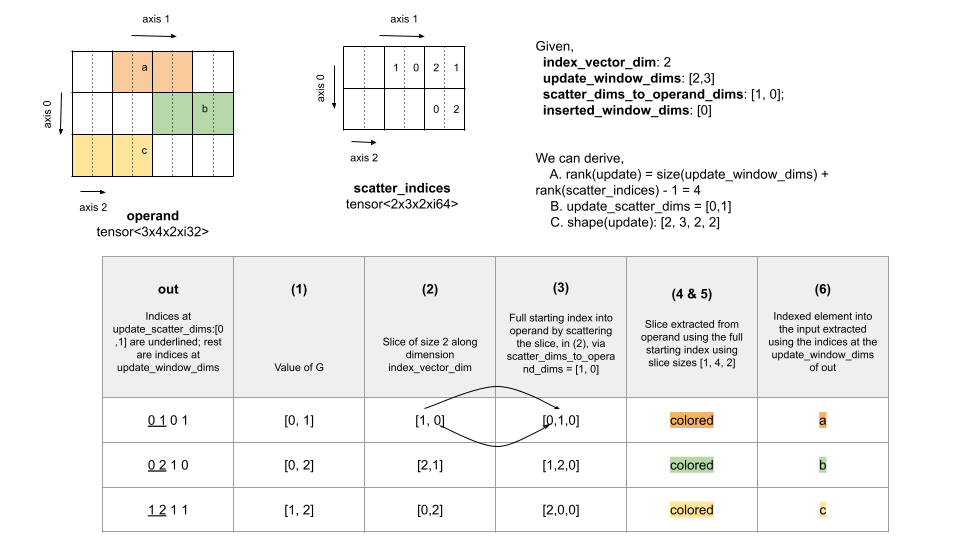
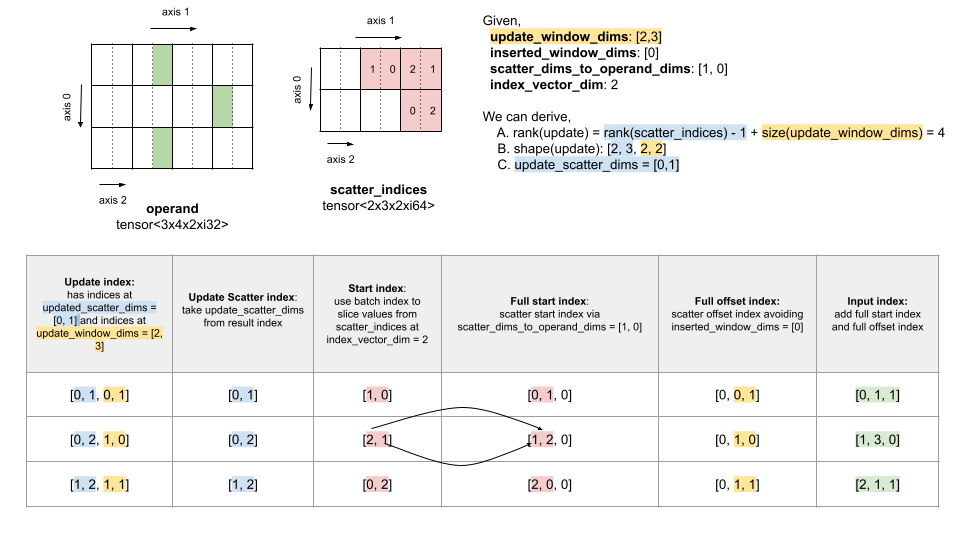
address review comments based on a simialr PR #275

diff --git a/docs/spec_draft.md b/docs/spec_draft.md
@@ -2376,105 +2376,72 @@ Generate `results` which is the values of the `inputs` operand, with several
 slices at indices specified by `scatter_indices`, updated with the values in
 `updates` using `update_computation`.
 
-Informally, for any `k`, every index `out` in `update[k]` corresponds to an
-element in `inputs[k]` at index `in` such that `result[k][in] =
-update_computation(inputs[k][in], updates[k][out])`. The element `inputs[k][in]`
- is computed using the following steps:
+The following diagram shows how elements in `updates[k]` map on elements in
+`inputs[k]` using a concrete example. The diagram picks a few example
+`updated[k[` indexes and explains in detail which `inputs[k]` indexes they
+correspond to.
 
-  1. Given the `update_scatter_dims` dimensions, `update_scatter_dims` = {`k`:
-     `k` is a dimension of `updates` and `k` $\notin$ `update_window_dims`},
-     extract the scatter indices $G$ from `out`. That is, $G =$ { `out`[`k`] :
-     `k` $\in$ `update_scatter_dims`}.
+<img align="center" src="spec_images/scatter.png" />
 
-  2. Use $G$ to look up a starting index slice from `scatter_indices` of size
-     dim(`scatter_indices`, `index_vector_dim`) along `index_vector_dim`
-     dimension.
+More formally, for any `k`, `updates[k][update_index] =
+inputs[k][input_index]` where:
+  * `update_scatter_dims` = [`d` for `d` in `axes(updates[k])` and `d` not in
+    `update_window_dims`].
+  * `update_scatter_index` = [`update_index[d]` for `d` in
+    `update_scatter_dims`].
+  * `start_index` =
+      * `scatter_indices[bi0, ..., :, ..., biN]` where `bi` are individual
+        elements in `update_scatter_index` and `:` is inserted at the
+        `index_vector_dim` index, if `index_vector_dim` <
+        `rank(scatter_indices)`.
+      * `[scatter_indices[update_scatter_index]]` otherwise.
+  * For `do` in `axes(inputs[k])`,
+      * `full_start_index[do]` = `start_index[ds]` if
+        `do = scatter_dims_to_operand_dims[ds]`.
+      * `full_start_index[do]` = `0` otherwise.
+  * `update_window_index` = [`update_index[d]` for `d` in `update_window_dims`].
+  * `full_offset_index` = `[oi0, ..., 0, ..., oiN]` where `oi` are individual
+    elements in `update_window_index`, and `0` is inserted at indices from
+    `inserted_window_dims`.
+  * `input_index` = `add(full_start_index, full_offset_index)`.
+    If `input_index` is out of bounds for `inputs[k]`, then the behavior is
+    implementation-defined.
 
-  3. Use `scatter_dims_to_operand_dims` to scatter the starting index slice
-     (whose size may be less than rank(`inputs[k]`)) into the iteration space
-     of `inputs[k]` creating a "full" starting index.
+For every index `update_index` in `updates[k]` and the corresponding index
+`input_index` in the `inputs[k]`, we have
 
-  4. Extract a slice out of `inputs[k]` with size `shape(inputs[k])` using the
-     full starting index.
-
-  5. Reshape the slice by collapsing the `inserted_window_dims` dimensions.
-
-  6. Use the indices of `out` at `update_window_dims` to index into the above
-     slice to get the input element corresponding to update index `out`.
-
-The following diagram depicts the behavior of the op, based on the above
-mentioned steps, using a concrete example. It uses a few instances of `out`
-indices to demonstrate how they are mapped to input elements.
-
-<p align="center">
-  <img src="spec_images/scatter.png" />
-</p>
-
-More formally, for a given index `out` in each `updates[k]`, the corresponding
-index `in` in `inputs[k]` into which the update has to be applied is computed as
-follows:
-
-1. If `index_vector_dim` $=$ rank(`scatter_indices`), add a trailing $1$ on the
-   shape of `scatter_indices`.
-
-2. Let $G =$ { `out`[`k`] for `k` in `update_scatter_dims`}. Use $G$ to slice
-   out a vector $S$ such that $S$[`i`] = `scatter_indices`[`Combine`($G$, `i`)]
-   where `Combine`(`A`, `b`) inserts b at position `index_vector_dim` into `A`.
-
-3. Create a starting index, $S_{in}$, into `inputs[k]` using $S$ by scattering
-   $S$ using `scatter_dims_to_operand_dims`. More precisely:
-     * $S_{in}$[`start_index_map`[`k`]] = $S$[`k`] if `k` $\lt$
-     size(`scatter_dims_to_operand_dims`).
-     * $S_{in}$[ _ ] $= 0$, Otherwise.
-
-4. Create an index $O_{in}$ into `inputs[k]` by scattering the indices at
-   `update_window_dims` in `out` according to the `inserted_window_dims` set.
-   More precisely:
-    * $O_{in}$[`window_dims_to_operand_dims`(`k`)] $=$
-    `out`[`update_window_dims`[`k`]] if `k` $\lt$ size(`update_window_dims`),
-    where `window_dims_to_operand_dims` is a monotonic
-    function with domain [0, size(`update_window_dims`)) and range
-    [0, rank(`operand`)) $-$ `inserted_window_dims`. So if, e.g.,
-    size(`update_window_dims`) is `4`, rank(`operand`) is `6` and
-    `inserted_window_dims` is `{0, 2}` then `window_dims_to_operand_dims` is
-    `{0 -> 1, 1 -> 3, 2 -> 4, 3 -> 5}`.
-    * $O_{in}$[ \_ ] $= 0$, Otherwise.
-
-5. `in` $= O_{in} + S_{in}$ where $+$ is element-wise addition. If
-   `in`[i] $\ge$ `di`, where `di` is the `i`$^{th}$ dimension size of
-   `inputs[k]`, then the behavior is implementation defined.
-
-
-For every index `out` in `updates[k]` and the corresponding index `in` in
-the `inputs[k]`, we have
-
-`(results[0][in], ..., results[N-1][in]) = update_computation(inputs[0][in], ..., , inputs[N-1][in],updates[0][out], ...,updates[N-1][out])`
-
+`results[k][input_index] = update_computation(inputs[k][input_index], updates[k][update_index])
 
 If `indices_are_sorted` is set to true then the implementation can assume that
 `scatter_indices` are sorted (in ascending `scatter_dims_to_operand_dims` order)
 by the user. If they are not then the semantics is implementation defined.
 
+If unique_indices is set to true then the implementation can assume that all
+`input_index` indices  being scattered to are unique. So the implementation
+could use non-atomic operations. If unique_indices is set to true and the
+indices being scattered to are not unique then the semantics is implementation
+defined.
+
 ### Inputs
 
-| Name                           | Description                                                                      | Type                                              | Constraints      |
-|--------------------------------|----------------------------------------------------------------------------------|---------------------------------------------------|------------------|
-| `inputs`                       | Input tensors to be scattered into                                               | variadic number of tensors of any supported types | (C1), (C2), (C3) |
-| `scatter_indices`              | A tensor containing the starting indices of the slices that must be scattered to | tensor of type `si64`                             |                  |
-| `updates`                      | `updates`[`i`] contains the values that must be used for scattering `inputs`[i]  | variadic number of tensors of any supported types | (C2), (C4)       |
-| `update_window_dims`           | The set of dimensions in updates shape that are window dimensions                | 1-dimensional tensor constant of type `si64`      | (C9), (C10)      |
-| `inserted_window_dims`         | The set of window dimensions that must be inserted into updates shape            | 1-dimensional tensor constant of type `si64`      | (C11),(C12)      |
-| `scatter_dims_to_operand_dims` | A dimensions map from the scatter indices to the operand index space.            | 1-dimensional tensor constant of type `si64`      | (C6),(C7), (C8)  |
-| `index_vector_dim`             | The dimension in `start_indices` containing the starting indices                 | constant of type `si64`                           | (C5)             |
-| `indices_are_sorted`           | Whether the indices are guaranteed to be sorted by the caller                    | constant of type `boolean`                        |                  |
-| `unique_indices`               | Whether the indices are guaranteed to be sorted by the caller                    | constant of type `boolean`                        |                  |
-| `update_computation`           | function                                                                         |                                                   |                  |
+| Name                           | Type                                              | Constraints                            |
+|--------------------------------|---------------------------------------------------|----------------------------------------|
+| `inputs`                       | variadic number of tensors of any supported types | (C1), (C2), (C3), (C12), (C13), (C15)  |
+| `scatter_indices`              | tensor of type `si64`                             | (C5), (C6), (C14, (C15)                |
+| `updates`                      | variadic number of tensors of any supported types | (C2), (C4), (C10), (C13), (C14), (C15) |
+| `update_window_dims`           | 1-dimensional tensor constant of type `si64`      | (C1), (C9), (C10), (C14)               |
+| `inserted_window_dims`         | 1-dimensional tensor constant of type `si64`      | (C1), (C11), (C12), (C15)              |
+| `scatter_dims_to_operand_dims` | 1-dimensional tensor constant of type `si64`      | (C6),(C7), (C8)                        |
+| `index_vector_dim`             | constant of type `si64`                           | (C5), (C6), (C14), (C15)               |
+| `indices_are_sorted`           | constant of type `boolean`                        |                                        |
+| `unique_indices`               | constant of type `boolean`                        |                                        |
+| `update_computation`           | function                                          | (C13)                                  |
 
 ### Outputs
 
-| Name     | Type                                              |
-|----------|---------------------------------------------------|
-| `results` | variadic number of tensors of any supported types|
+| Name      | Type                                              |
+|-----------|---------------------------------------------------|
+| `results` | variadic number of tensors of any supported types |
 
 ### Constraints
 
@@ -2488,12 +2455,11 @@ by the user. If they are not then the semantics is implementation defined.
 
   * (C4) All `updates` have the same shape.
 
-  * (C5) $0 \le$ `index_vector_dim` $\le$ rank(`scatter_indices`) Or
-        `index_vector_dim` $=$ rank(`scatter_indices`), in which case assume a
-         trailing $1$ on the shape of `scatter_indices`.
+  * (C5) $0 \le$ `index_vector_dim` $\le$ rank(`scatter_indices`)
 
-  * (C6) dim(`scatter_indices`, `index_vector_dim`) $=$
-         size(`scatter_dims_to_operand_dims`)
+  * (C6) size(`scatter_dims_to_operand_dims`) $=$
+         `index_vector_dim` $\lt$ rank(`scatter_indices`) ?
+         dim(`scatter_indices`, `index_vector_dim`) : 1.
 
   * (C7) All dimensions in `scatter_dims_to_operand_dims` unique.
 
@@ -2506,36 +2472,32 @@ by the user. If they are not then the semantics is implementation defined.
   * (C10) For all i $\in$ [0, size(`update_window_dims`)), $0 \le$
     `update_window_dims`[i] $\lt$ rank(`updates`[k]), for any k $\in$ [0, N).
 
-
   * (C11) All dimensions in `inserted_window_dims` are unique and sorted.
 
-  * (C12)For all i $\in$ [0, size(`inserted_window_dims`)), $0 \le$
+  * (C12) For all i $\in$ [0, size(`inserted_window_dims`)), $0 \le$
     `inserted_window_dims`[i] $\lt$ rank(`inputs`[k]), for any k $\in$ [0, N).
 
-  * (C13) `inputs[k]` and `result[k]` have the same type for any k $\in$ [0, N).
-
-  * (C14) `update_computation` is of type `(I0, ..., IN-1, U0, ..., UN-1) -> (R0, ..., RN-1)`
+  * (C13) `update_computation` is of type `(I0, ..., IN-1, U0, ..., UN-1) -> (R0, ..., RN-1)`
           where `I0, ..., IN-1` are types of `inputs`,  `U0, ..., UN-1` are
-          types of `updates`, and `R0, ..., RN-1` are types of `results`.
+          types of `updates`, and `R0, ..., RN-1` are types of `results` and
+          Id = Ud = Rd.
 
+  * On shape of `updates[k]` for any k $\in$ [0, N)
+    * (C14) rank(`updates[k]`) $=$ `effective_scatter_indices_rank` - 1 $+$
+            size(`update_window_dims`), where
+            `effective_scatter_indices_rank` $=$
+            `index_vector_dim` $\lt$ rank(`scatter_indices`) ?
+            rank(`scatter_indices`) : rank(`scatter_indices`) + 1.
 
-  * On shape of `update`
-    * For all i $\in$ [0, N), rank(`updates[i]`) $=$ size(`update_window_dims`) +
-  rank(`scatter_indices`) - 1
+    * (C15) `shape(updates[k])` $=$ `concatenate(shape(scatter_indices), shape(inputs[k]))`
+            except that:
+      * The dimension size of `scatter_indices` corresponding to
+        `index_vector_dim` is not included.
+      * The dimension sizes in `inputs[k]` corresponding to
+        `inserted_window_dims` are not included.
 
-    * The dimension size of `i`$^{th}$ dimension, `di`, of `update` is computed
-      as:
-
-      * If `i` is present in `update_window_dims`, i.e., `i` $=$
-      `update_window_dims`[`k`] for some `k`, then `di` $=$
-      `adjusted_window_bounds`[`k`] where `adjusted_window_bounds` $=$
-      shape(`input`) - {dim(`input`, i) : i $\in$ `inserted_window_dims`} for
-      any `input` in `inputs`.
-
-      * If `i` is present in the `update_scatter_dims`, i.e., `i` $=$
-      `update_scatter_dims`[`k`] for some `k`, then
-        * `di` $=$ dim(`scatter_indices`, `k`) if `k` $\lt$ `index_vector_dim`
-        * `di` $=$ dim(`scatter_indices`, `k+1`), otherwise.
+  * On shape of `results[k]` for any k $\in$ [0, N)
+    * (C16) `inputs[k]` and `result[k]` have the same type for any k $\in$ [0, N).
 
 ### Examples
 
@@ -2555,7 +2517,7 @@ by the user. If they are not then the semantics is implementation defined.
            scatter_dimension_numbers = #mhlo.scatter<
              update_window_dims = [2,3],
              inserted_window_dims = [0],
-             scatter_dims_to_operand_dims = [1,0],
+             scatter_dims_to_operand_dims = [1, 0],
              index_vector_dim = 2 >,
            indices_are_sorted = false,
            unique_indices = false}
